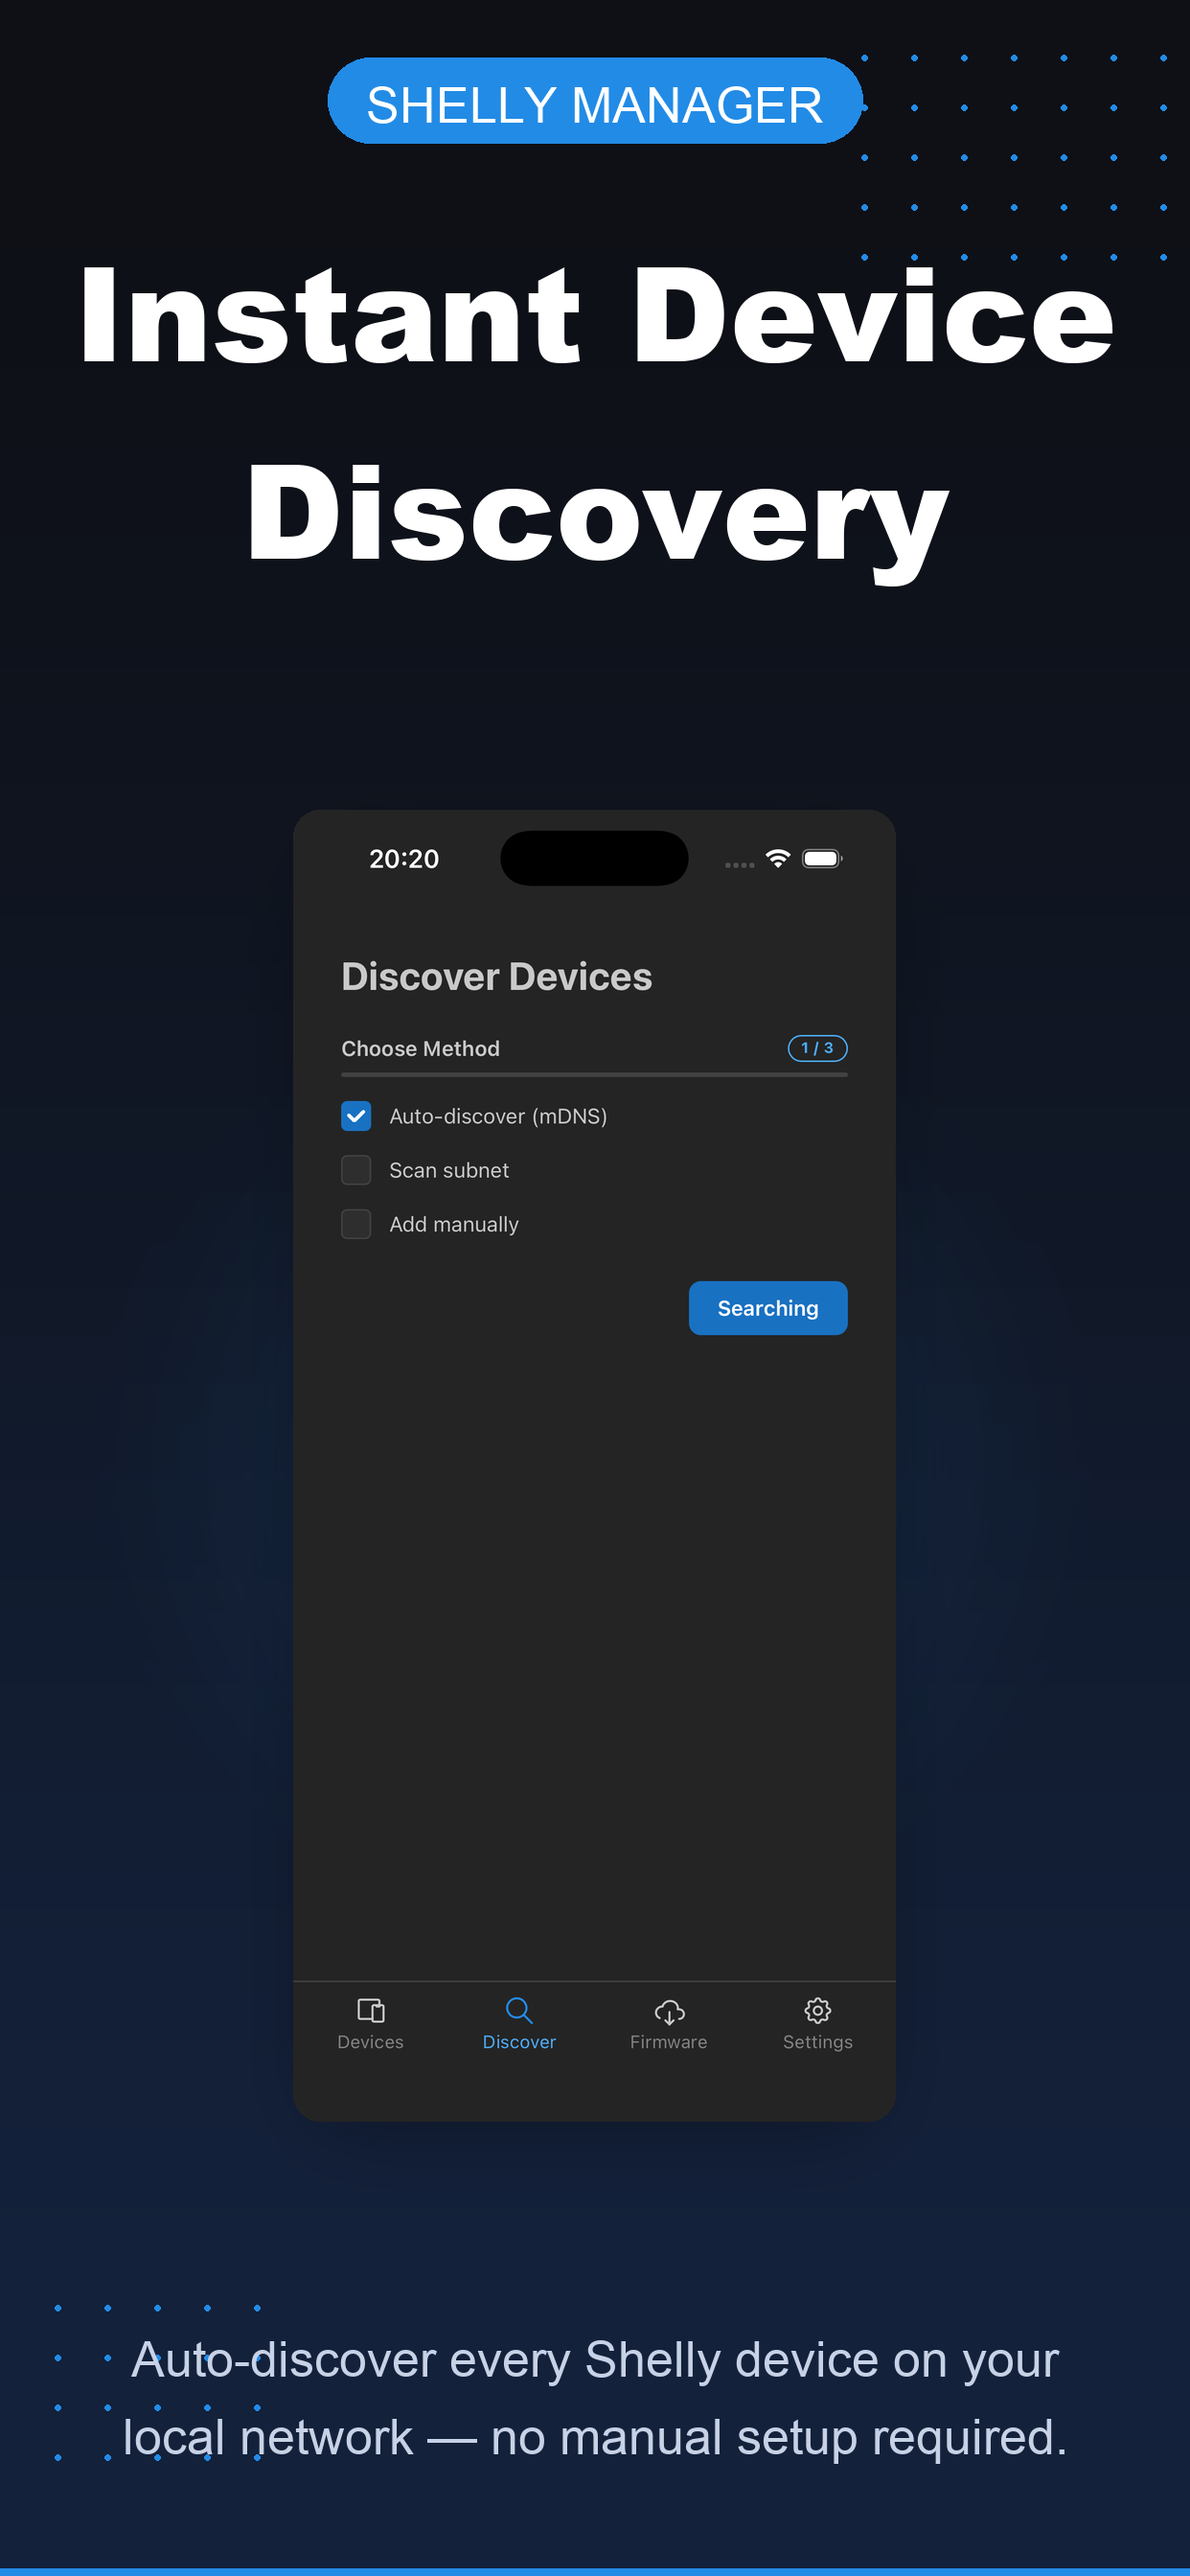
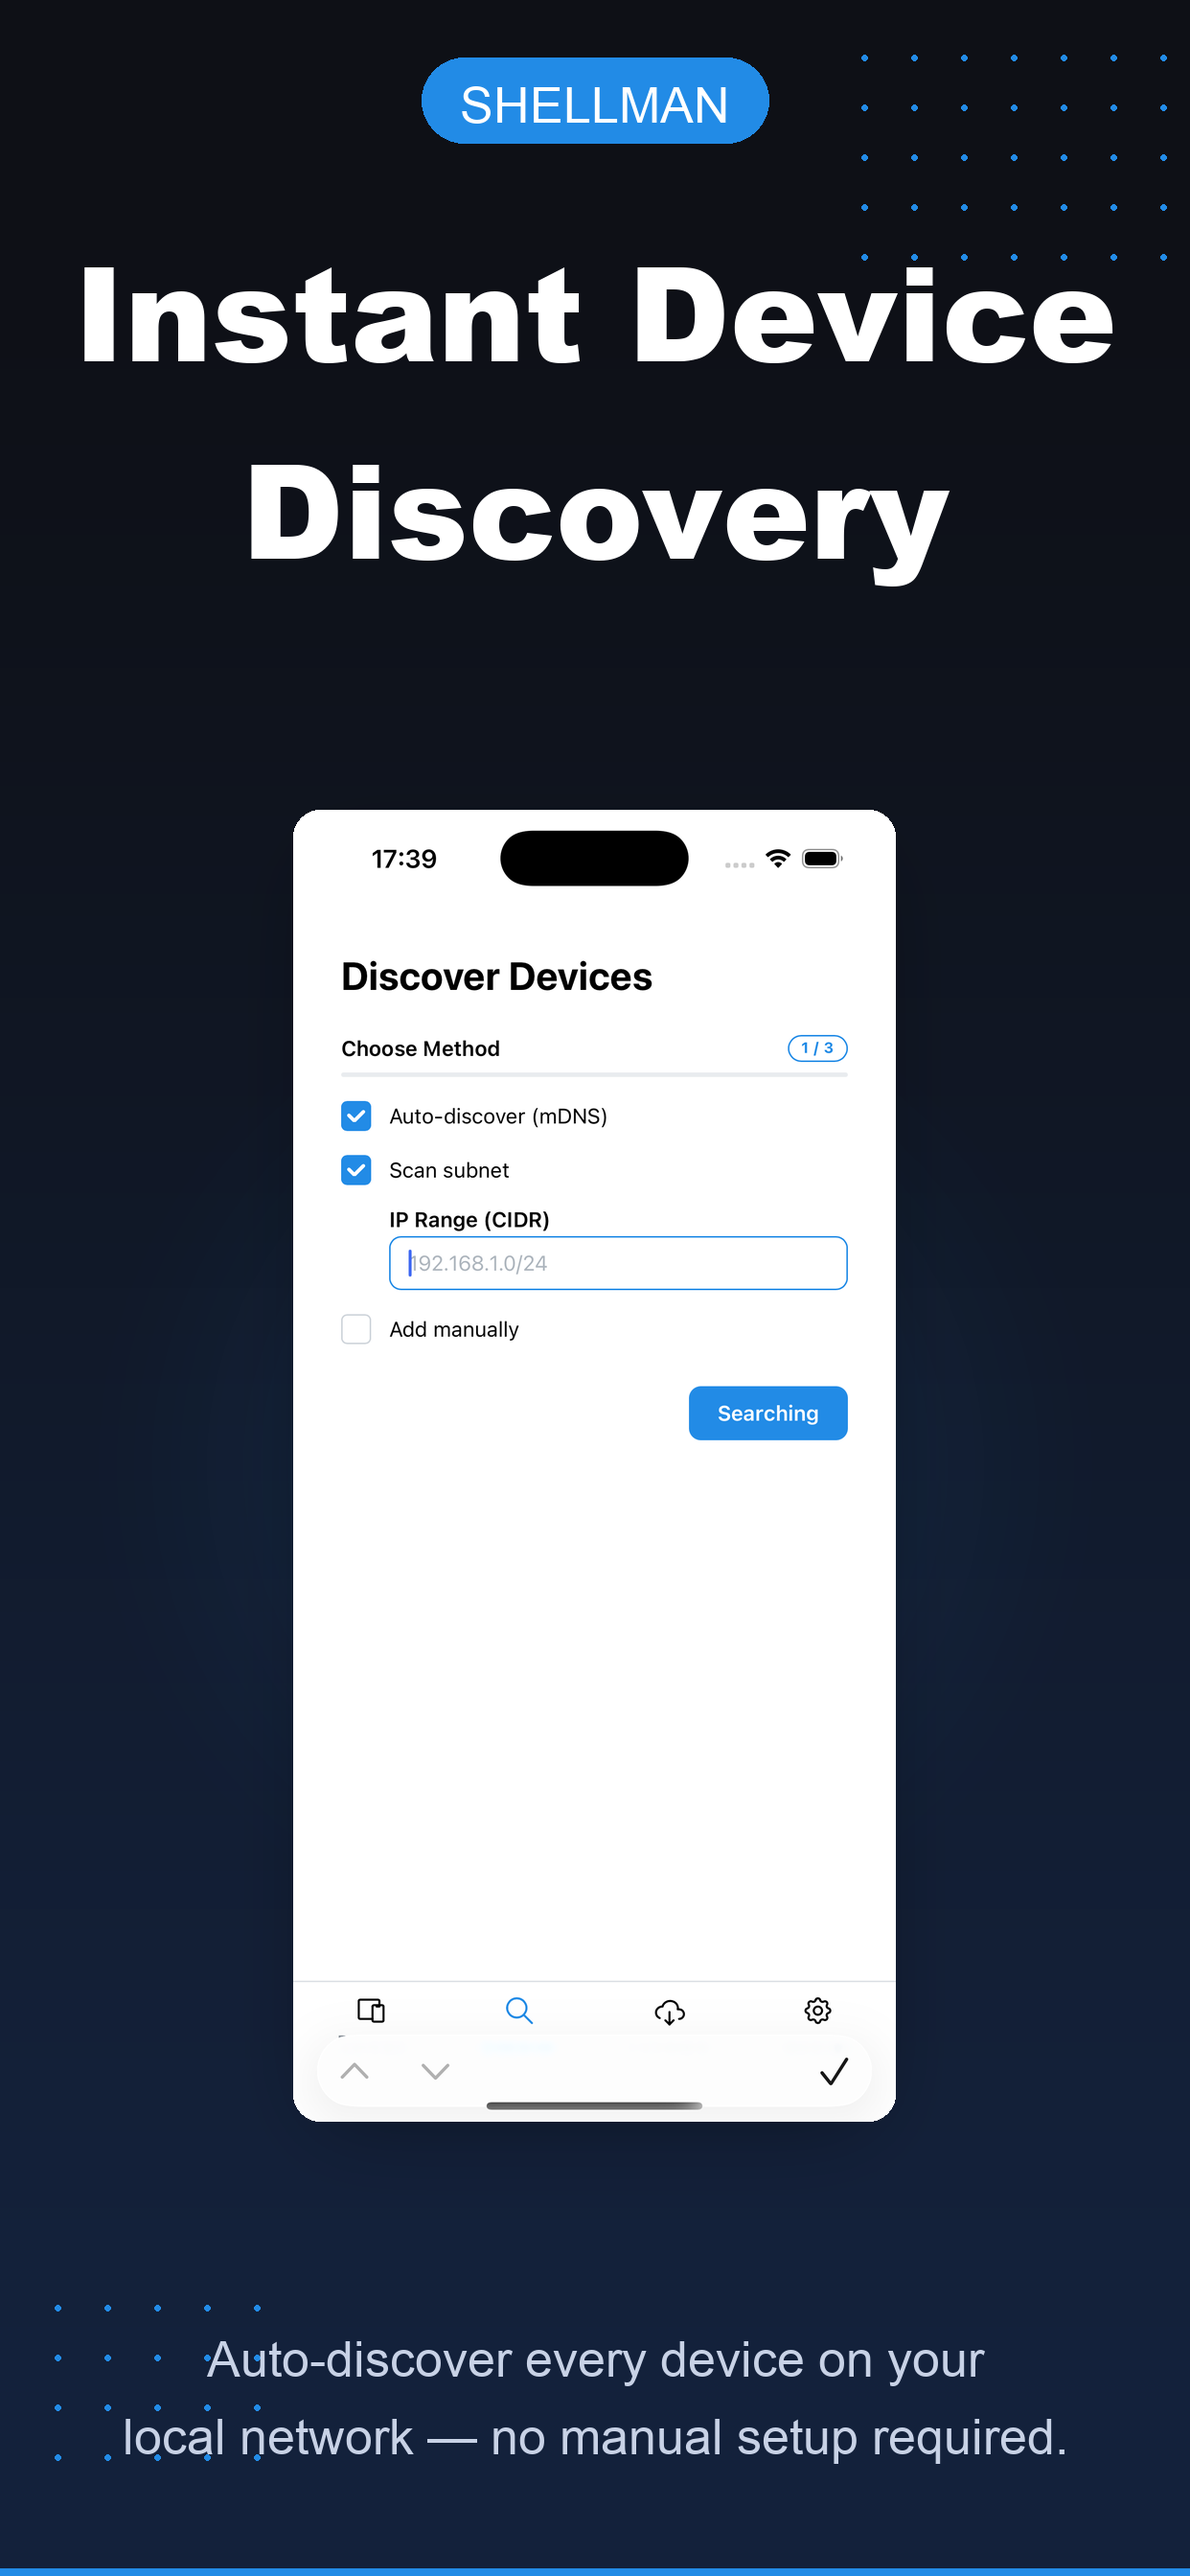
feat: add iOS build configuration, promo assets, and update generate_promo script

Changed region(s): [[0.2448, 0.3125, 0.7649, 0.8438], [0.1224, 0.9062, 0.8873, 0.9375], [0.2754, 0.0, 0.7343, 0.0625]]

diff --git a/scripts/generate_promo.py b/scripts/generate_promo.py
@@ -11,7 +11,7 @@ import math
 from PIL import Image, ImageDraw, ImageFilter, ImageFont
 
 # ── Paths ─────────────────────────────────────────────────────────────────────
-BASE_DIR = os.path.dirname(os.path.abspath(__file__))
+BASE_DIR = os.path.dirname("../")
 SS_DIR = os.path.join(BASE_DIR, "screenshots")
 OUT_IPHONE = os.path.join(BASE_DIR, "promo", "iphone")
 OUT_IPAD = os.path.join(BASE_DIR, "promo", "ipad")
@@ -36,13 +36,13 @@ FRAME_CLR = (40,  55,  85)     # device frame border
 # ── Per-screenshot metadata ────────────────────────────────────────────────────
 IPHONE_SHOTS = [
     {
-        "file": "Simulator Screenshot - iPhone 17 Pro - 2026-04-20 at 20.20.37.png",
+        "file": "Simulator Screenshot - iPhone 17 Pro - 2026-04-26 at 17.39.35.png",
         "headline": "Instant Device\nDiscovery",
-        "subtitle": "Auto-discover every Shelly device on your\nlocal network — no manual setup required.",
+        "subtitle": "Auto-discover every device on your\nlocal network — no manual setup required.",
         "tag": "01_discover",
     },
     {
-        "file": "Simulator Screenshot - iPhone 17 Pro - 2026-04-20 at 20.21.18.png",
+        "file": "Simulator Screenshot - iPhone 17 Pro - 2026-04-26 at 17.50.11.png",
         "headline": "Full Device\nControl",
         "subtitle": "Toggle switches, monitor live power draw,\nand explore energy stats in real time.",
         "tag": "02_device_detail",
@@ -51,21 +51,21 @@ IPHONE_SHOTS = [
 
 IPAD_SHOTS = [
     {
-        "file": "Simulator Screenshot - iPad Pro 11-inch (M5) - 2026-04-20 at 20.23.35.png",
+        "file": "Simulator Screenshot - iPad Pro 13-inch (M5) - 2026-04-26 at 17.55.12.png",
         "headline": "Your Smart Home\nDashboard",
-        "subtitle": "All your Shelly devices in one clean, native interface\ndesigned for iPad's large display.",
+        "subtitle": "All your devices in one clean, native interface\ndesigned for iPad's large display.",
         "tag": "01_dashboard",
     },
     {
-        "file": "Simulator Screenshot - iPad Pro 11-inch (M5) - 2026-04-20 at 20.23.40.png",
+        "file": "Simulator Screenshot - iPad Pro 13-inch (M5) - 2026-04-26 at 17.55.32.png",
         "headline": "Three Ways to\nDiscover Devices",
         "subtitle": "mDNS auto-discovery, subnet scan, or manual entry —\nchoose the method that fits your setup.",
         "tag": "02_discover",
     },
     {
-        "file": "Simulator Screenshot - iPad Pro 11-inch (M5) - 2026-04-20 at 20.23.44.png",
+        "file": "Simulator Screenshot - iPad Pro 13-inch (M5) - 2026-04-26 at 17.55.22.png",
         "headline": "Always Up\nto Date",
-        "subtitle": "Check and push firmware updates to all your\nShelly Gen 2/3/4 devices from one place.",
+        "subtitle": "Check and push firmware updates to all your\n Gen 2/3/4 devices from one place.",
         "tag": "03_firmware",
     },
 ]
